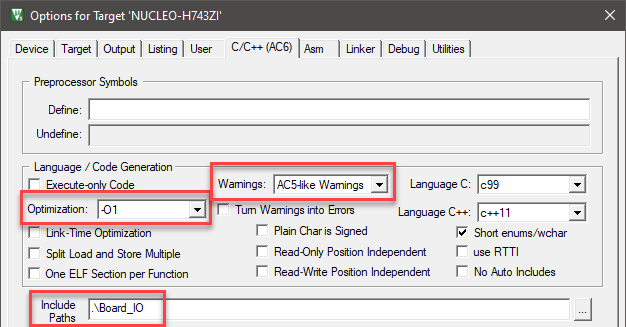
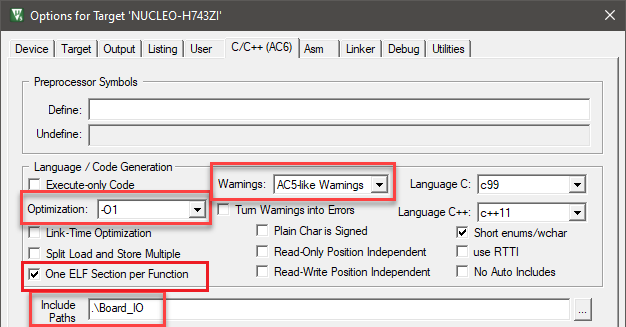
Update documentation (minor corrections)

Changed region(s): [[0.0304, 0.7951, 0.3339, 0.9174]]

diff --git a/docs/platform_project.md b/docs/platform_project.md
@@ -15,7 +15,7 @@ The following software is required:
   - ARM.CMSIS 5.7.0 or above
   - ARM.CMSIS-Driver 2.6.1 or above
   - Keil.ARM_Compiler 1.6.3 or above
-  - Software pack(s) that contain(s) device support (DFP/BSP)
+  - Latest available software pack(s) that contain(s) device support (DFP/BSP)
 
 ## Create the Project
 
@@ -60,7 +60,7 @@ These templates are available in the [templates](./templates) directory.
 
 Go to **Project - Manage - Project Items...** and configure the project as follows:
 
-- Under **Project Targets**, rename the target (usually **Target 1** to the actual **board name**.
+- Under **Project Targets**, rename the target (usually **Target 1** to the actual **board name**).
 - Under **Groups** add:
   - **App**: Platform.c (module where main thread application is running)
   - **Board IO**:
@@ -117,7 +117,7 @@ Go to **Project - Manage - Project Items...** and configure the project as follo
         /**
         * Override default HAL_InitTick function
         */
-        HAL_StatusTypeDef HAL_InitTick(uint32_t TickPriority) {
+        HAL_StatusTypeDef HAL_InitTick (uint32_t TickPriority) {
           
           UNUSED(TickPriority);
         
@@ -128,7 +128,7 @@ Go to **Project - Manage - Project Items...** and configure the project as follo
         ```
         SystemCoreClockUpdate();
         ```
-      - add other initialization code at `USER CODE BEGIN 2 SysInit`:
+      - add other initialization code at `USER CODE BEGIN 2`:
         ```
         #ifdef RTE_VIO_BOARD
           vioInit();
@@ -161,6 +161,7 @@ Go to **Project - Options for Target (Alt+F7)** and change:
 - On the **C/C++(AC6)** tab:
   - Set **Optimization:** to *-O1*
   - Set **Warnings:** to *AC5-like Warnings*
+  - Select **One ELF Section per Function** checkbox
   - Add **Include Paths:** `.\Board_IO` (if `arduino.c` is available):  
     ![Options for Target - C/C++ tab](./images/targ_opt_c_cpp.png)
 - On the **Linker** tab:
@@ -181,7 +182,7 @@ Configure following items:
   - **Heap Size** to *64 KB*
   - **Stack Size** to *1 KB*
 - In the `RTX_Config.h` file, set:
-  - **Global Dynamic Memory size** to *24000* bytes
+  - **Global Dynamic Memory size** to *32768* bytes
   - **Default Thread Stack size** to *3072* bytes
   - Under **Event Recorder Configuration**, set:
     - **Global Initialization** to *1*

diff --git a/docs/templates/NXP/README.md b/docs/templates/NXP/README.md
@@ -11,7 +11,7 @@ The real-time operating system [Keil RTX5](https://arm-software.github.io/CMSIS_
 
 It is configured with the following settings:
 
-- [Global Dynamic Memory size](https://arm-software.github.io/CMSIS_5/RTOS2/html/config_rtx5.html#systemConfig): 24000 bytes
+- [Global Dynamic Memory size](https://arm-software.github.io/CMSIS_5/RTOS2/html/config_rtx5.html#systemConfig): 32768 bytes
 - [Default Thread Stack size](https://arm-software.github.io/CMSIS_5/RTOS2/html/config_rtx5.html#threadConfig): 3072 bytes
 - [Event Recorder Configuration](https://arm-software.github.io/CMSIS_5/RTOS2/html/config_rtx5.html#evtrecConfig)
   - [Global Initialization](https://arm-software.github.io/CMSIS_5/RTOS2/html/config_rtx5.html#evtrecConfigGlobIni): 1

diff --git a/docs/templates/README.md b/docs/templates/README.md
@@ -11,7 +11,7 @@ The real-time operating system [Keil RTX5](https://arm-software.github.io/CMSIS_
 
 It is configured with the following settings:
 
-- [Global Dynamic Memory size](https://arm-software.github.io/CMSIS_5/RTOS2/html/config_rtx5.html#systemConfig): 24000 bytes
+- [Global Dynamic Memory size](https://arm-software.github.io/CMSIS_5/RTOS2/html/config_rtx5.html#systemConfig): 32768 bytes
 - [Default Thread Stack size](https://arm-software.github.io/CMSIS_5/RTOS2/html/config_rtx5.html#threadConfig): 3072 bytes
 - [Event Recorder Configuration](https://arm-software.github.io/CMSIS_5/RTOS2/html/config_rtx5.html#evtrecConfig)
   - [Global Initialization](https://arm-software.github.io/CMSIS_5/RTOS2/html/config_rtx5.html#evtrecConfigGlobIni): 1

diff --git a/docs/templates/ST/README.md b/docs/templates/ST/README.md
@@ -11,7 +11,7 @@ The real-time operating system [Keil RTX5](https://arm-software.github.io/CMSIS_
 
 It is configured with the following settings:
 
-- [Global Dynamic Memory size](https://arm-software.github.io/CMSIS_5/RTOS2/html/config_rtx5.html#systemConfig): 24000 bytes
+- [Global Dynamic Memory size](https://arm-software.github.io/CMSIS_5/RTOS2/html/config_rtx5.html#systemConfig): 32768 bytes
 - [Default Thread Stack size](https://arm-software.github.io/CMSIS_5/RTOS2/html/config_rtx5.html#threadConfig): 3072 bytes
 - [Event Recorder Configuration](https://arm-software.github.io/CMSIS_5/RTOS2/html/config_rtx5.html#evtrecConfig)
   - [Global Initialization](https://arm-software.github.io/CMSIS_5/RTOS2/html/config_rtx5.html#evtrecConfigGlobIni): 1
